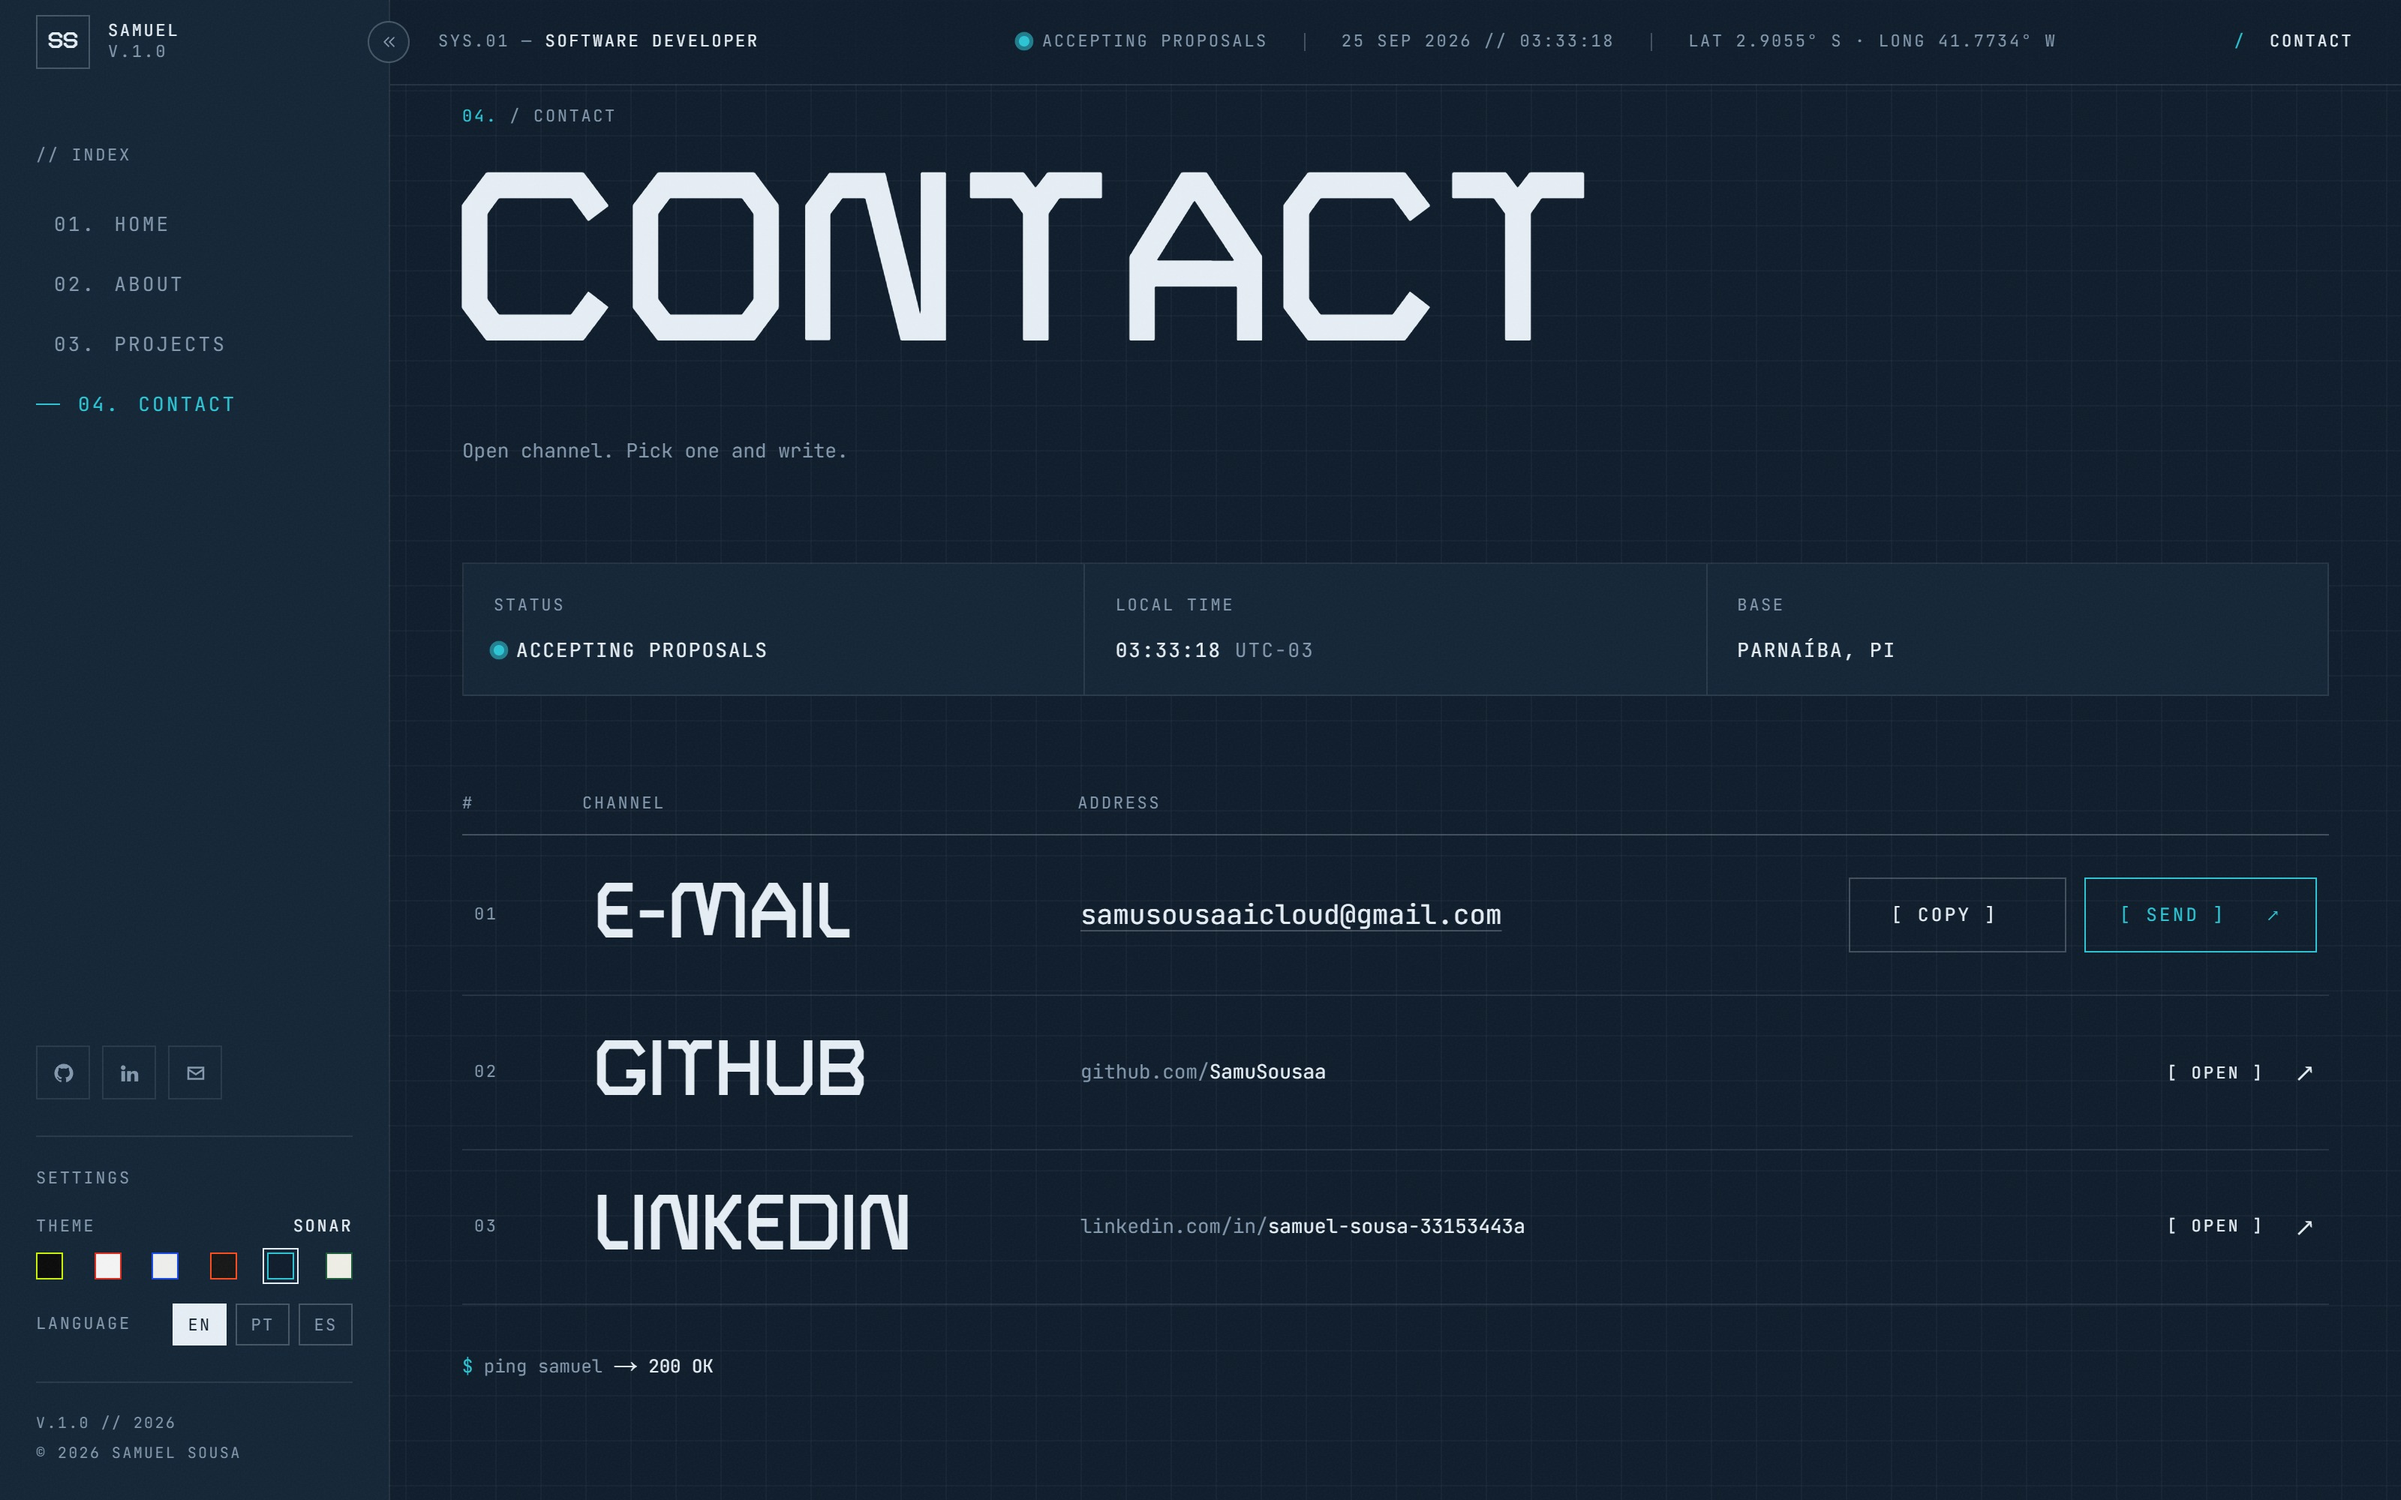
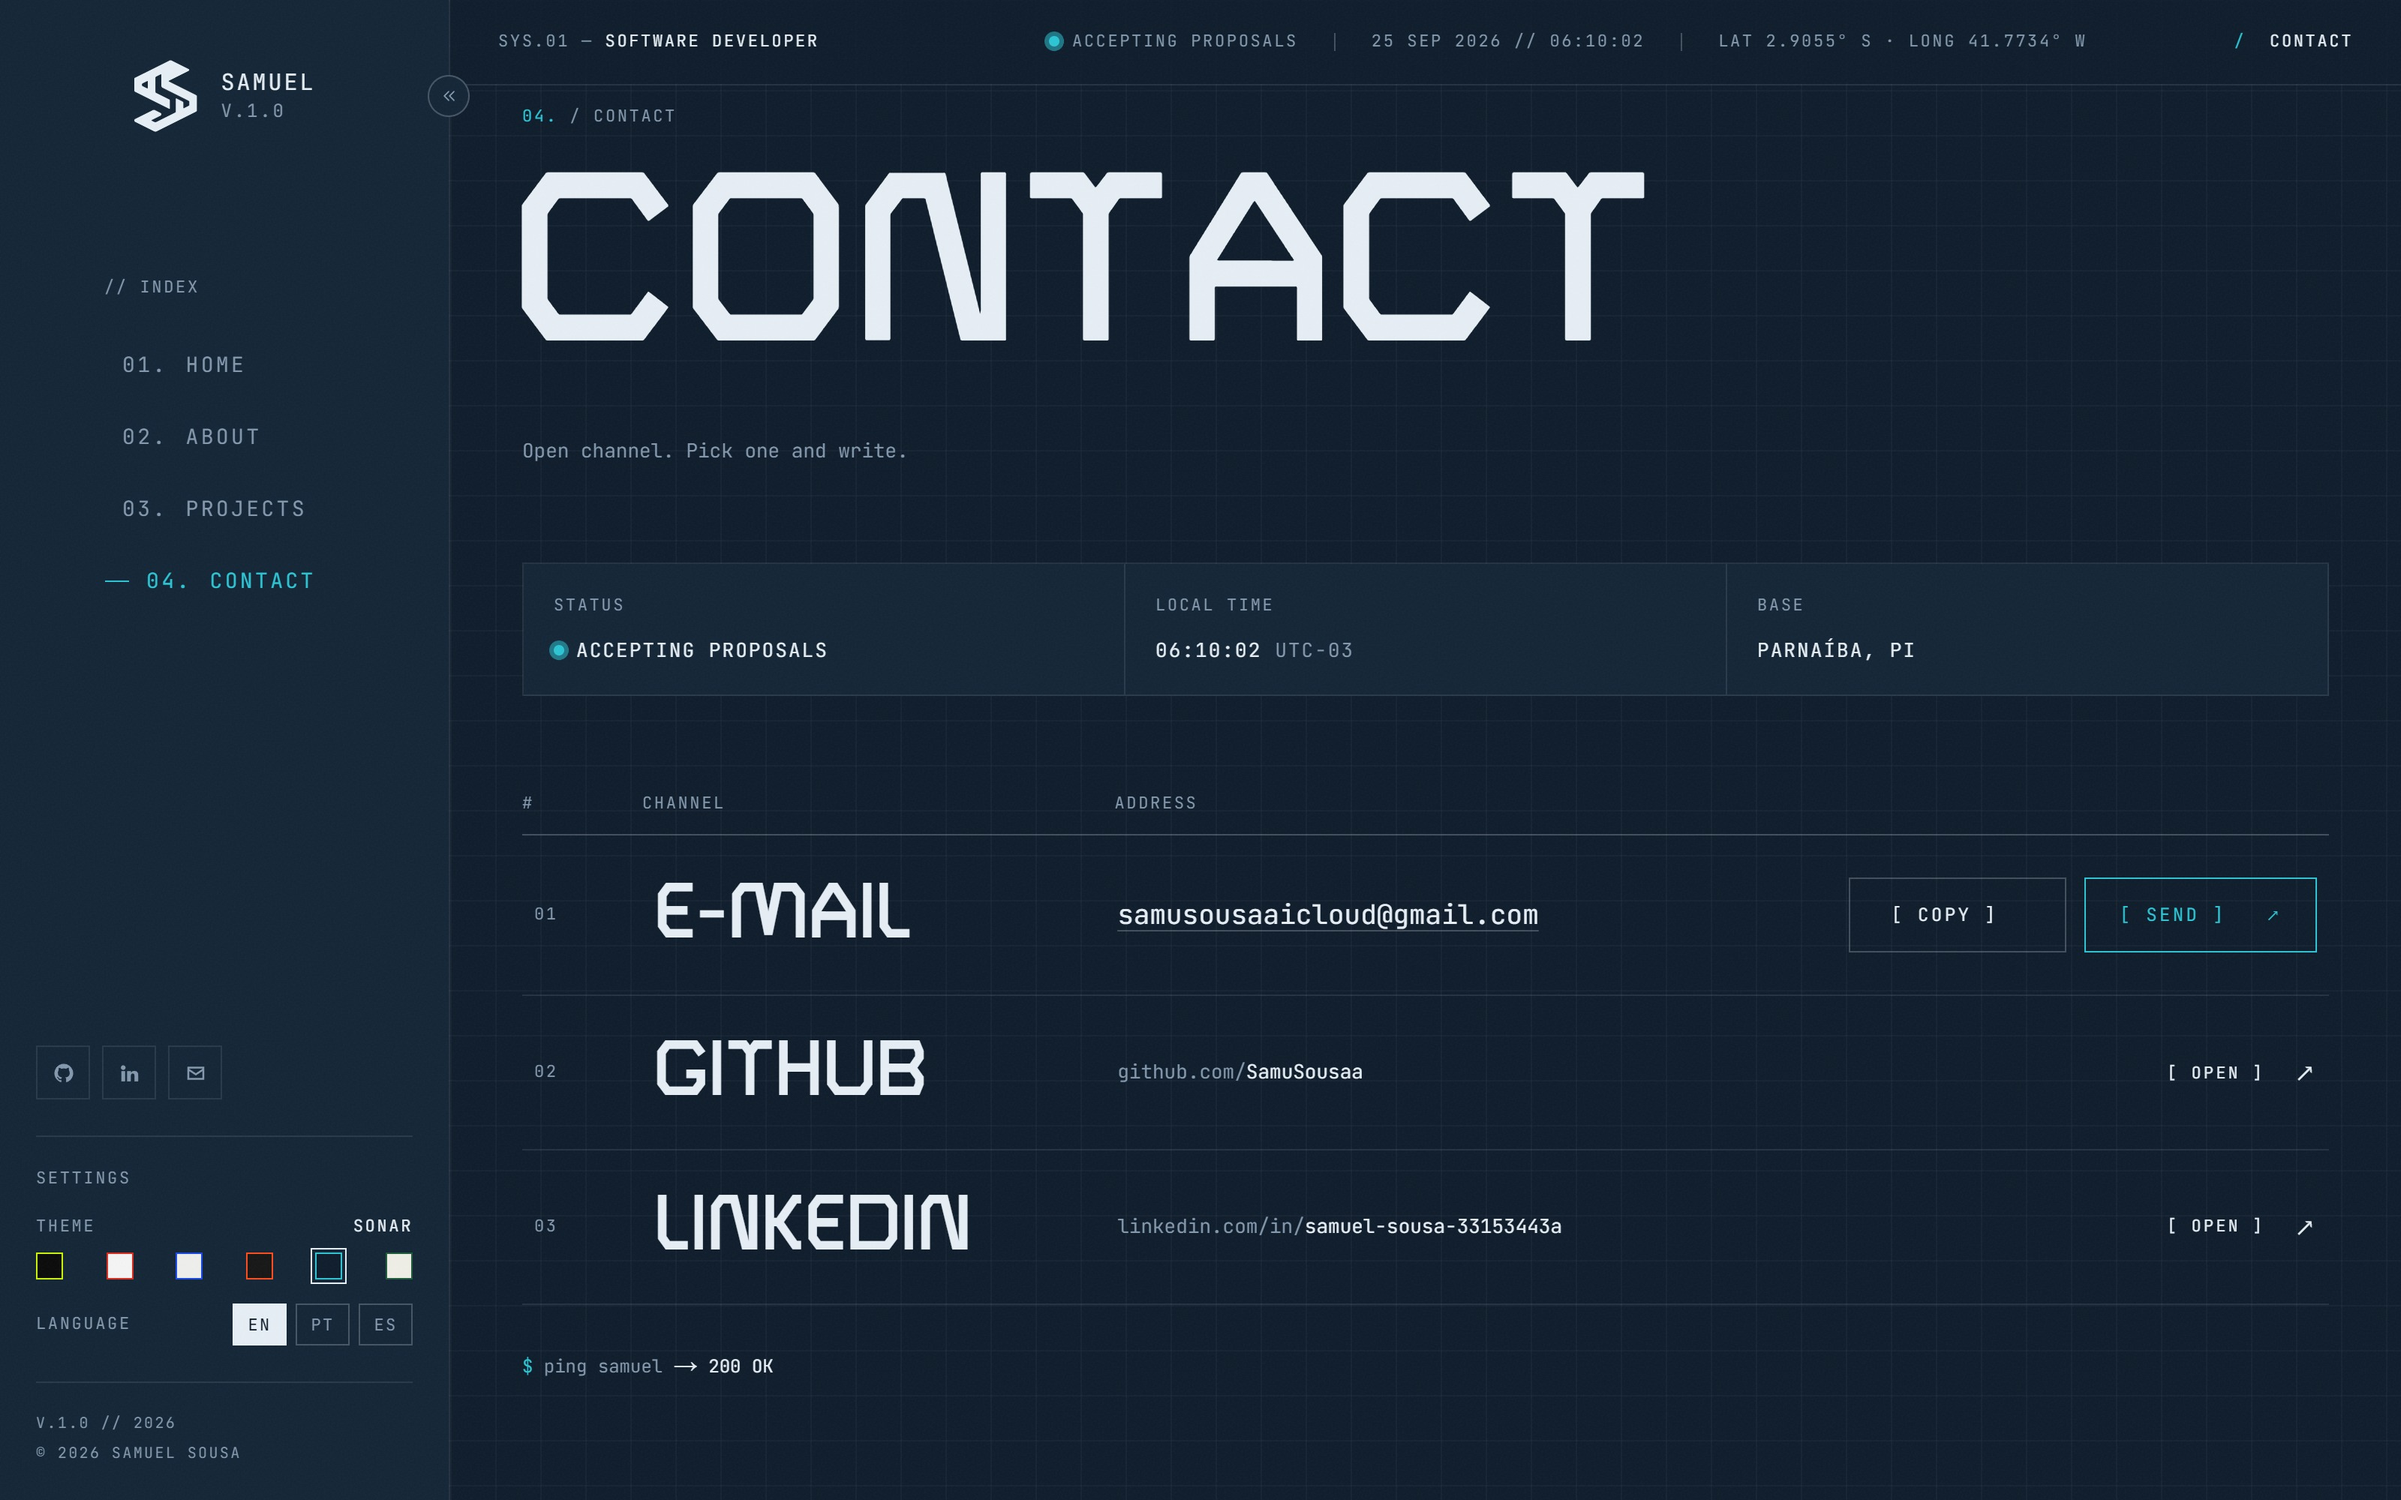
Sidebar centralizada aprovada e galeria do Portfólio recapturada
- Tira o rótulo de teste da sidebar centralizada
- Capturas do projeto Portfólio refeitas com a logo nova e a sidebar
  atual; a capa agora também sai do script capture-portfolio.mjs

diff --git a/src/app/globals.css b/src/app/globals.css
@@ -372,7 +372,7 @@ html.sb-collapsed .sb-chevron {
   rotate: 180deg;
 }
 /*
- * TESTE: logo e abas centradas na sidebar aberta (referência: Hans).
+ * Logo e abas centradas na sidebar aberta (referência: Hans).
  * Logo + nome = 121 px; abas = 161 px no idioma mais largo (ES, com o traço da
  * ativa), então o recuo é fixo e a troca de idioma não move nada. Contas sobre a
  * largura ABERTA: ao encolher, os textos só esmaecem, e a marca desliza até o
